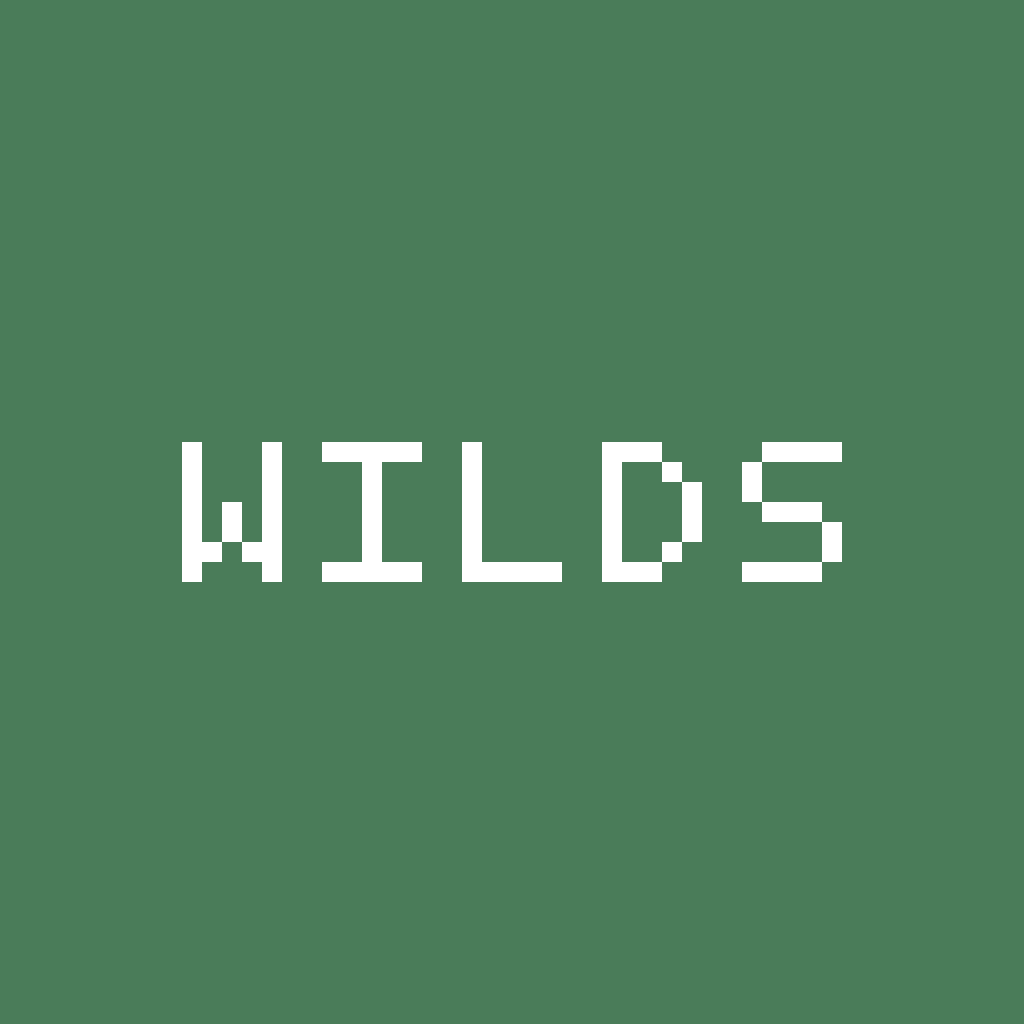
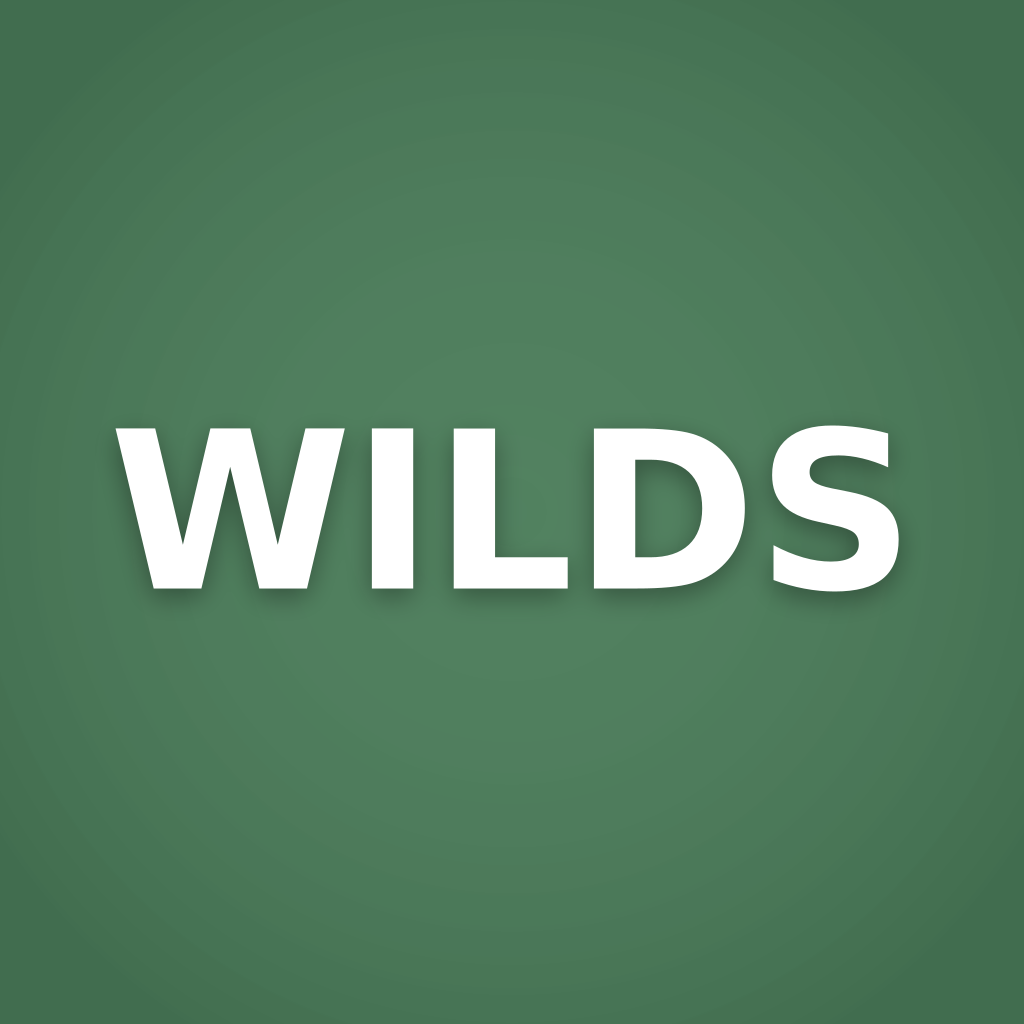
Regenerate assets as real PNGs using Node.js canvas
Replaces the stdlib-generated PNGs with canvas-rendered versions:
- icon.png / adaptive-icon.png: 1024x1024, #4A7C59 bg, white "WILDS" bold text
- splash.png: 1284x2778, same style
- favicon.png: 32x32, solid green

https://claude.ai/code/session_01VnTpFcLV3oQzEVYNfVYCME

Changed region(s): [[0.4375, 0.4062, 0.875, 0.5938], [0.0938, 0.4062, 0.4062, 0.5938]]

diff --git a/generate_assets_node.js b/generate_assets_node.js
@@ -1,0 +1,54 @@
+#!/usr/bin/env node
+const { createCanvas } = require('/tmp/asset-gen/node_modules/canvas');
+const fs = require('fs');
+const path = require('path');
+
+const BG = '#4A7C59';
+const FG = '#FFFFFF';
+
+function generate(outPath, width, height, fontSize) {
+  const canvas = createCanvas(width, height);
+  const ctx = canvas.getContext('2d');
+
+  // Background
+  ctx.fillStyle = BG;
+  ctx.fillRect(0, 0, width, height);
+
+  if (fontSize > 0) {
+    // Subtle texture: slightly darker center radial
+    const grad = ctx.createRadialGradient(width / 2, height / 2, 0, width / 2, height / 2, Math.max(width, height) * 0.6);
+    grad.addColorStop(0, 'rgba(255,255,255,0.04)');
+    grad.addColorStop(1, 'rgba(0,0,0,0.12)');
+    ctx.fillStyle = grad;
+    ctx.fillRect(0, 0, width, height);
+
+    // Text
+    ctx.fillStyle = FG;
+    ctx.font = `bold ${fontSize}px sans-serif`;
+    ctx.textAlign = 'center';
+    ctx.textBaseline = 'middle';
+
+    // Soft shadow for legibility
+    ctx.shadowColor = 'rgba(0,0,0,0.35)';
+    ctx.shadowBlur = fontSize * 0.1;
+    ctx.shadowOffsetX = 0;
+    ctx.shadowOffsetY = fontSize * 0.04;
+
+    ctx.fillText('WILDS', width / 2, height / 2);
+  }
+
+  const buf = canvas.toBuffer('image/png');
+  fs.writeFileSync(outPath, buf);
+  const kb = Math.round(buf.length / 1024);
+  console.log(`  ${path.basename(outPath).padEnd(22)} ${width}x${height}  ${kb} KB`);
+}
+
+const dir = path.join(__dirname, 'assets', 'images');
+fs.mkdirSync(dir, { recursive: true });
+
+console.log('Generating WILDS assets...');
+generate(path.join(dir, 'icon.png'),          1024, 1024,  220);
+generate(path.join(dir, 'adaptive-icon.png'), 1024, 1024,  220);
+generate(path.join(dir, 'splash.png'),        1284, 2778,  260);
+generate(path.join(dir, 'favicon.png'),         32,   32,    0);
+console.log('Done.');
